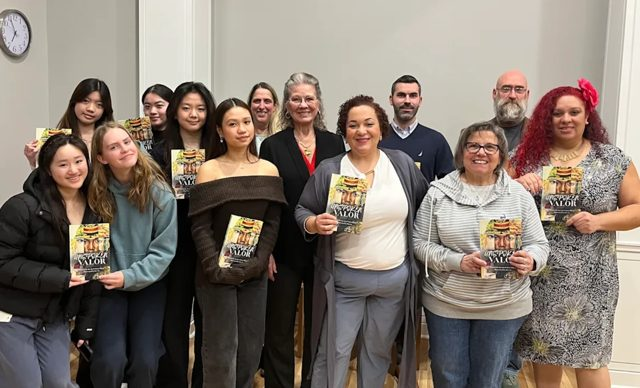
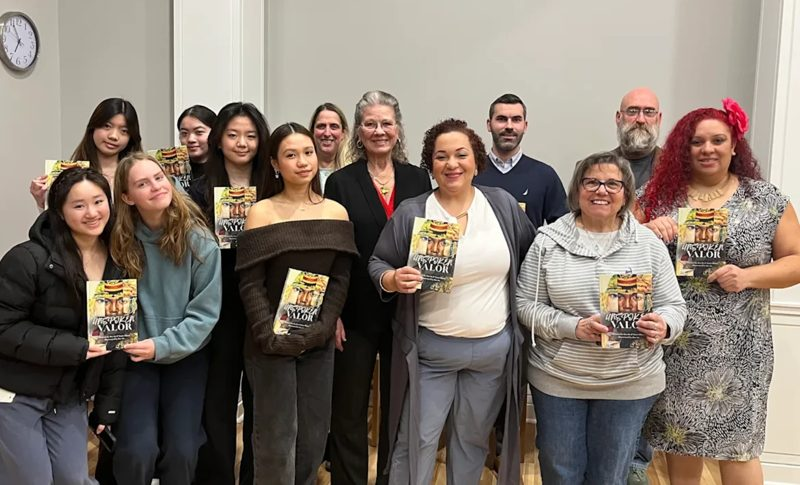
Publications: wide photos on top of news cards
Claude-Session: https://claude.ai/code/session_0173SK57SVoBAN87PAFDZpCa

diff --git a/publications/index.html b/publications/index.html
@@ -9,7 +9,7 @@
   <link rel="preconnect" href="https://fonts.googleapis.com">
   <link rel="preconnect" href="https://fonts.gstatic.com" crossorigin>
   <link href="https://fonts.googleapis.com/css2?family=Inter:wght@400;500;600&display=swap" rel="stylesheet">
-  <link rel="stylesheet" href="/assets/style.css?v=72">
+  <link rel="stylesheet" href="/assets/style.css?v=74">
 </head>
 <body>
   <nav>
@@ -66,7 +66,7 @@
         <h3 class="news-group">Elsewhere</h3>
         <ul class="news-list">
           <li><a class="news-card" href="https://www.roger.vet/blog/honoring-the-unspoken-valor-of-women-veterans/" target="_blank" rel="noopener"><span class="news-body"><span class="news-src">Roger · <time>May 18, 2026</time></span><span class="news-title">Honoring the Unspoken Valor of Women Veterans</span><span class="news-more">Read the article ↗</span></span></a></li>
-          <li><a class="news-card" href="https://www.wfsb.com/2026/05/15/connecticut-female-veterans-honored-book-created-by-high-school-students/" target="_blank" rel="noopener"><img class="news-img" src="/assets/img/news/wfsb.jpg?v=2" alt="" loading="lazy"><span class="news-body"><span class="news-src">WFSB Eyewitness News 3 · <time>May 15, 2026</time></span><span class="news-title">Connecticut Female Veterans Honored in Book Created by High School Students</span><span class="news-more">Read the article ↗</span></span></a></li>
+          <li><a class="news-card" href="https://www.wfsb.com/2026/05/15/connecticut-female-veterans-honored-book-created-by-high-school-students/" target="_blank" rel="noopener"><img class="news-img" src="/assets/img/news/wfsb.jpg?v=3" alt="" loading="lazy"><span class="news-body"><span class="news-src">WFSB Eyewitness News 3 · <time>May 15, 2026</time></span><span class="news-title">Connecticut Female Veterans Honored in Book Created by High School Students</span><span class="news-more">Read the article ↗</span></span></a></li>
         </ul>
       </section>
 

diff --git a/assets/style.css b/assets/style.css
@@ -1557,3 +1557,7 @@ body.art-body { --bg: #08090b; --text: #f2f2f2; --muted: #a3a3a3; --line: #2a2a2
 .news-src time { font-weight: 600; }
 .news-list { grid-template-columns: repeat(auto-fill, minmax(300px, 1fr)); }
 .news-img { flex-basis: 130px; width: 130px; }
+.news-card { flex-direction: column; }
+.news-img { flex: none; width: 100%; height: auto; aspect-ratio: 16 / 9; object-fit: cover; object-position: center 30%; }
+.news-body { flex: 1; }
+.news-list { align-items: start; }

diff --git a/art/index.html b/art/index.html
@@ -9,7 +9,7 @@
   <link rel="preconnect" href="https://fonts.googleapis.com">
   <link rel="preconnect" href="https://fonts.gstatic.com" crossorigin>
   <link href="https://fonts.googleapis.com/css2?family=Inter:wght@400;500;600&display=swap" rel="stylesheet">
-  <link rel="stylesheet" href="/assets/style.css?v=72">
+  <link rel="stylesheet" href="/assets/style.css?v=74">
 </head>
 <body class="art-body">
   <nav>

diff --git a/cv/index.html b/cv/index.html
@@ -9,7 +9,7 @@
   <link rel="preconnect" href="https://fonts.googleapis.com">
   <link rel="preconnect" href="https://fonts.gstatic.com" crossorigin>
   <link href="https://fonts.googleapis.com/css2?family=Inter:wght@400;500;600&display=swap" rel="stylesheet">
-  <link rel="stylesheet" href="/assets/style.css?v=72">
+  <link rel="stylesheet" href="/assets/style.css?v=74">
 </head>
 <body>
   <nav>

diff --git a/index.html b/index.html
@@ -9,7 +9,7 @@
   <link rel="preconnect" href="https://fonts.googleapis.com">
   <link rel="preconnect" href="https://fonts.gstatic.com" crossorigin>
   <link href="https://fonts.googleapis.com/css2?family=Inter:wght@400;500;600&display=swap" rel="stylesheet">
-  <link rel="stylesheet" href="/assets/style.css?v=72">
+  <link rel="stylesheet" href="/assets/style.css?v=74">
 </head>
 <body>
   <nav>

diff --git a/internships/boxing/index.html b/internships/boxing/index.html
@@ -9,7 +9,7 @@
   <link rel="preconnect" href="https://fonts.googleapis.com">
   <link rel="preconnect" href="https://fonts.gstatic.com" crossorigin>
   <link href="https://fonts.googleapis.com/css2?family=Inter:wght@400;500;600&display=swap" rel="stylesheet">
-  <link rel="stylesheet" href="/assets/style.css?v=72">
+  <link rel="stylesheet" href="/assets/style.css?v=74">
 </head>
 <body>
   <nav>

diff --git a/internships/cha-lab/index.html b/internships/cha-lab/index.html
@@ -9,7 +9,7 @@
   <link rel="preconnect" href="https://fonts.googleapis.com">
   <link rel="preconnect" href="https://fonts.gstatic.com" crossorigin>
   <link href="https://fonts.googleapis.com/css2?family=Inter:wght@400;500;600&display=swap" rel="stylesheet">
-  <link rel="stylesheet" href="/assets/style.css?v=72">
+  <link rel="stylesheet" href="/assets/style.css?v=74">
 </head>
 <body>
   <nav>

diff --git a/internships/index.html b/internships/index.html
@@ -9,7 +9,7 @@
   <link rel="preconnect" href="https://fonts.googleapis.com">
   <link rel="preconnect" href="https://fonts.gstatic.com" crossorigin>
   <link href="https://fonts.googleapis.com/css2?family=Inter:wght@400;500;600&display=swap" rel="stylesheet">
-  <link rel="stylesheet" href="/assets/style.css?v=72">
+  <link rel="stylesheet" href="/assets/style.css?v=74">
 </head>
 <body>
   <nav>

diff --git a/internships/vala/index.html b/internships/vala/index.html
@@ -9,7 +9,7 @@
   <link rel="preconnect" href="https://fonts.googleapis.com">
   <link rel="preconnect" href="https://fonts.gstatic.com" crossorigin>
   <link href="https://fonts.googleapis.com/css2?family=Inter:wght@400;500;600&display=swap" rel="stylesheet">
-  <link rel="stylesheet" href="/assets/style.css?v=72">
+  <link rel="stylesheet" href="/assets/style.css?v=74">
 </head>
 <body>
   <nav>

diff --git a/research/adolescent-dtl-dtd-profiles/index.html b/research/adolescent-dtl-dtd-profiles/index.html
@@ -9,7 +9,7 @@
   <link rel="preconnect" href="https://fonts.googleapis.com">
   <link rel="preconnect" href="https://fonts.gstatic.com" crossorigin>
   <link href="https://fonts.googleapis.com/css2?family=Inter:wght@400;500;600&display=swap" rel="stylesheet">
-  <link rel="stylesheet" href="/assets/style.css?v=72">
+  <link rel="stylesheet" href="/assets/style.css?v=74">
 </head>
 <body>
   <nav>

diff --git a/research/ai-mental-health-ethics/index.html b/research/ai-mental-health-ethics/index.html
@@ -9,7 +9,7 @@
   <link rel="preconnect" href="https://fonts.googleapis.com">
   <link rel="preconnect" href="https://fonts.gstatic.com" crossorigin>
   <link href="https://fonts.googleapis.com/css2?family=Inter:wght@400;500;600&display=swap" rel="stylesheet">
-  <link rel="stylesheet" href="/assets/style.css?v=72">
+  <link rel="stylesheet" href="/assets/style.css?v=74">
 </head>
 <body>
   <nav>

diff --git a/research/continual-learning-htp/index.html b/research/continual-learning-htp/index.html
@@ -9,7 +9,7 @@
   <link rel="preconnect" href="https://fonts.googleapis.com">
   <link rel="preconnect" href="https://fonts.gstatic.com" crossorigin>
   <link href="https://fonts.googleapis.com/css2?family=Inter:wght@400;500;600&display=swap" rel="stylesheet">
-  <link rel="stylesheet" href="/assets/style.css?v=72">
+  <link rel="stylesheet" href="/assets/style.css?v=74">
 </head>
 <body>
   <nav>
